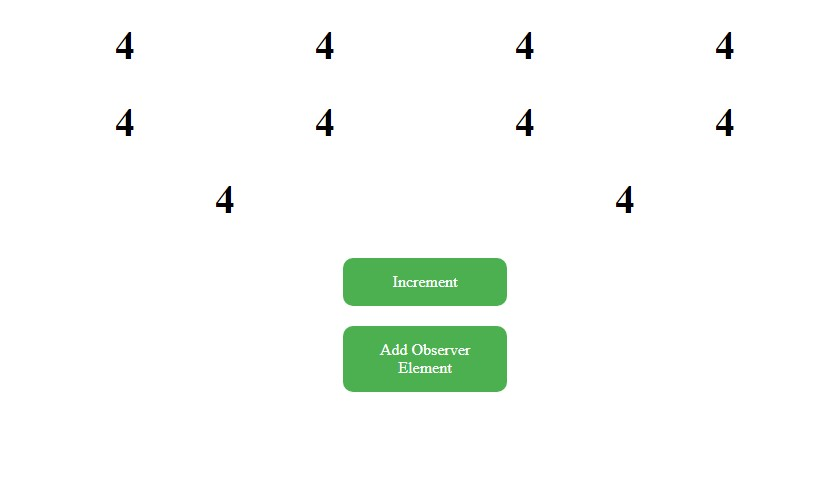
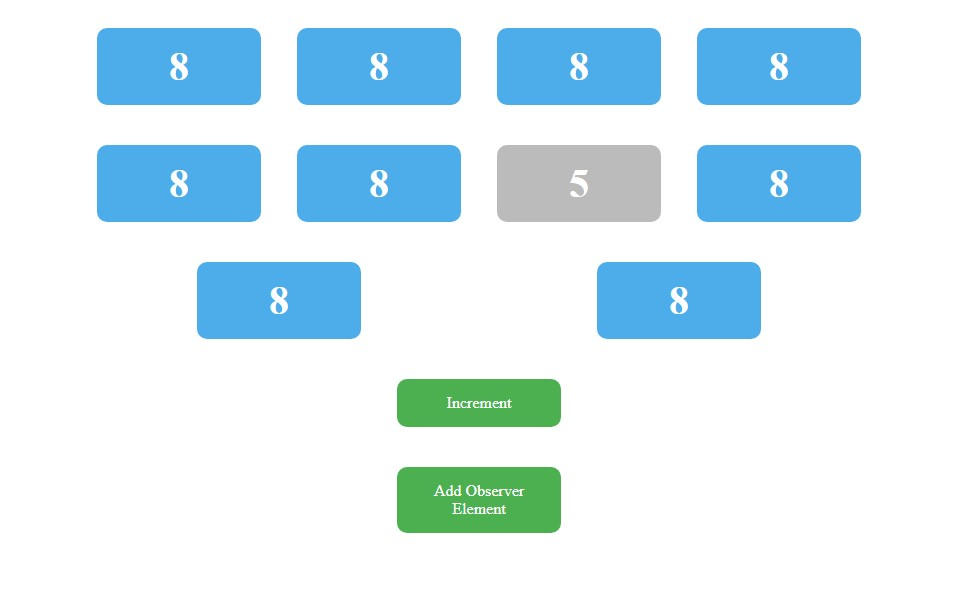
Added unsubscribe from subject. Naming fixes. Style changes.

diff --git a/js/app.js b/js/app.js
@@ -1,40 +1,52 @@
 'use strict';
 
 // Imports
-import NumberModel from './numberModel.js';
+import NumberSubject from './numberSubject.js';
 import ElementObserver from './elementObserver.js';
 
-// Principals
-let mainNumber = new NumberModel();
-
-// Observers
-let homePageNumber = new ElementObserver('homepagenumber');
-let homePageNumber2 = new ElementObserver('homepagenumber2');
+// Subjects
+let mainNumber = new NumberSubject();
 
 // RegisterObservers
-mainNumber.addObserver(homePageNumber);
-mainNumber.addObserver(homePageNumber2);
+mainNumber.subscribe(new ElementObserver('homepagenumber'));
+mainNumber.subscribe(new ElementObserver('homepagenumber2'));
+mainNumber.subscribe(new ElementObserver('homepagenumber3'));
+
+
 
 // Global functions - declarations
-window.Advance = function (){
+window.Advance = function () {
 	mainNumber.incrementCurrentNumber();
 }
 
-let elementIndex = 3;
-window.AddElementAndSubscribeToObservable = function (){
+window.Unsubscribe = function () {
+	mainNumber.unsubscribe(this);
+}
+
+let elementIndex = 4; // There are already 3 sample elements defined in the DOM
+window.AddElementAndSubscribeToObservable = function () {
 	let elementId = "homepagenumber" + elementIndex;
 	
 	let observerElement = document.createElement('div');
 	observerElement.setAttribute("id", elementId);
 	observerElement.setAttribute("class", "number");	
+	//observerElement.onclick = "Unsubscribe()";
+	observerElement.addEventListener("click", window.Unsubscribe);
 	document.getElementById("observerElements").appendChild(observerElement);
 	
-	let observerToSubscribe = new ElementObserver(elementId);
-	mainNumber.addObserver(observerToSubscribe);
+	mainNumber.subscribe(new ElementObserver(elementId));
 	
 	elementIndex++;
 }
 
-window.LogState = function (){
+window.LogState = function () {
 	return mainNumber;
 }
+
+// Add event listeners to 3 sample DOM elements
+let element = document.getElementById('homepagenumber');
+element.addEventListener("click", window.Unsubscribe);
+element = document.getElementById('homepagenumber2');
+element.addEventListener("click", window.Unsubscribe);
+element = document.getElementById('homepagenumber3');
+element.addEventListener("click", window.Unsubscribe);

diff --git a/index.html b/index.html
@@ -6,10 +6,13 @@
    </head>
    <body>
       <div id="observerElements">
-         <div id="homepagenumber" class="number"></div>
-         <div id="homepagenumber2" class="number"></div>
+        <div id="homepagenumber" class="number"></div>
+        <div id="homepagenumber2" class="number"></div>
+		<div id="homepagenumber3" class="number"></div>
       </div>
-      <div class="button" onclick="Advance()">Increment</div>
-      <div class="button" onclick="AddElementAndSubscribeToObservable()">Add Observer Element</div>
+	  <div id="buttonsContainer">
+		<div class="button" onclick="Advance()">Increment</div>
+		<div class="button" onclick="AddElementAndSubscribeToObservable()">Add Observer Element</div>
+	  </div>
    </body>
 </html>

diff --git a/css/main.css b/css/main.css
@@ -6,15 +6,24 @@
 	flex-wrap: wrap;
 	justify-content: space-between;
 }
+#buttonsContainer{
+	margin: 0 auto;
+	width: 300px;
+	display: flex;
+	flex-direction: column;
+	justify-content: space-between;
+}
 .number{
-	margin:0 auto;
+	margin:20px auto;
 	width: 100px;
 	padding: 15px 32px;
 	text-align: center;
 	text-decoration: none;
 	font-size: 40px;
 	font-weight: bold;
-	color: black;
+	color: white;
+	background-color: #4CADEA;
+	border-radius: 10px;
 }
 .button{
 	margin:20px auto;

diff --git a/js/numberSubject.js b/js/numberSubject.js
@@ -1,14 +1,21 @@
 'use strict';
 
-export default class NumberModel {	
+export default class NumberSubject {	
 	constructor() {
 		this.currentNumber = 0;
 		this.observers = [];
 	}
 	
-	addObserver(o){
+	subscribe(o){
 		this.observers.push(o);
 		o.update(this);
+	}
+	
+	unsubscribe(o){
+		o.setAttribute("style", "background-color: #BBB;");
+		this.observers = this.observers.filter(function(el) {
+			return el.element.id != o.id;		
+		});
 	}
 	
 	notifyObservers(){

diff --git a/README.md b/README.md
@@ -7,3 +7,5 @@
 
 ![img](screenshot.jpg)
 
+#### You can click on number displaying elements to unsubscribe from Subject.
+
